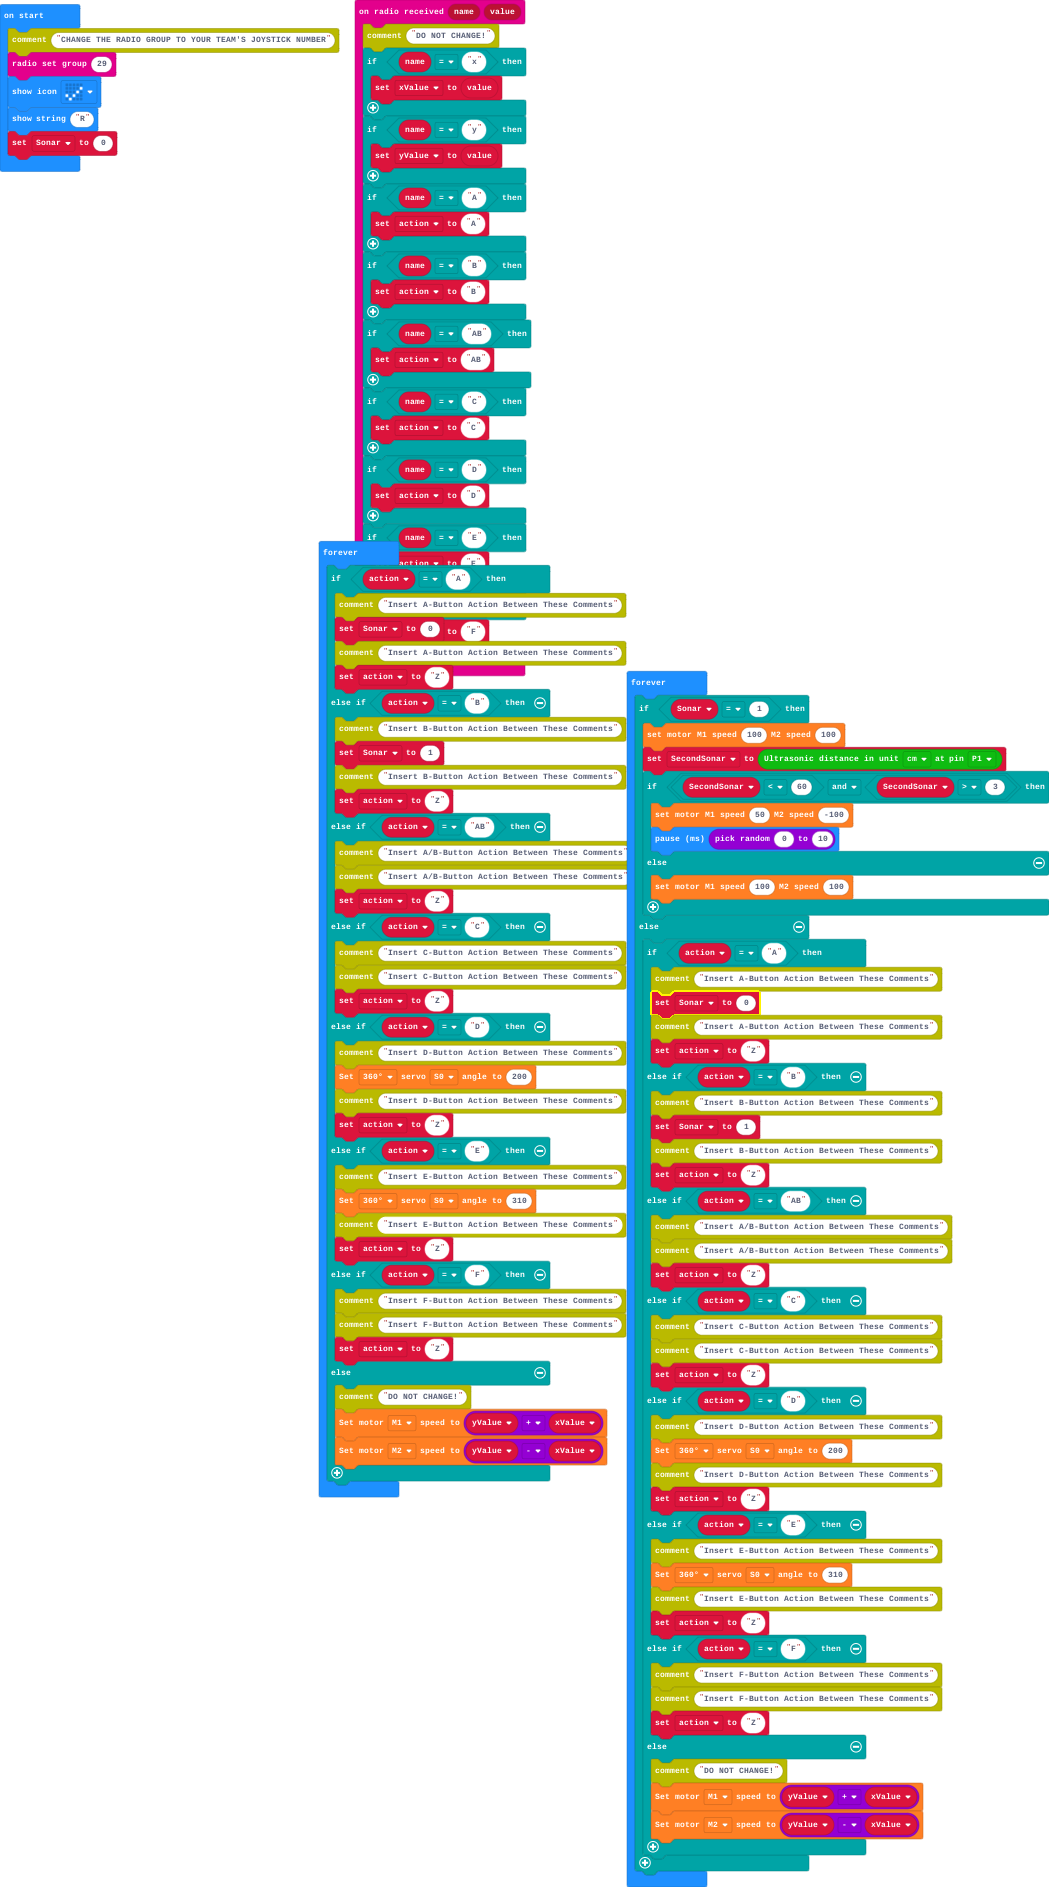
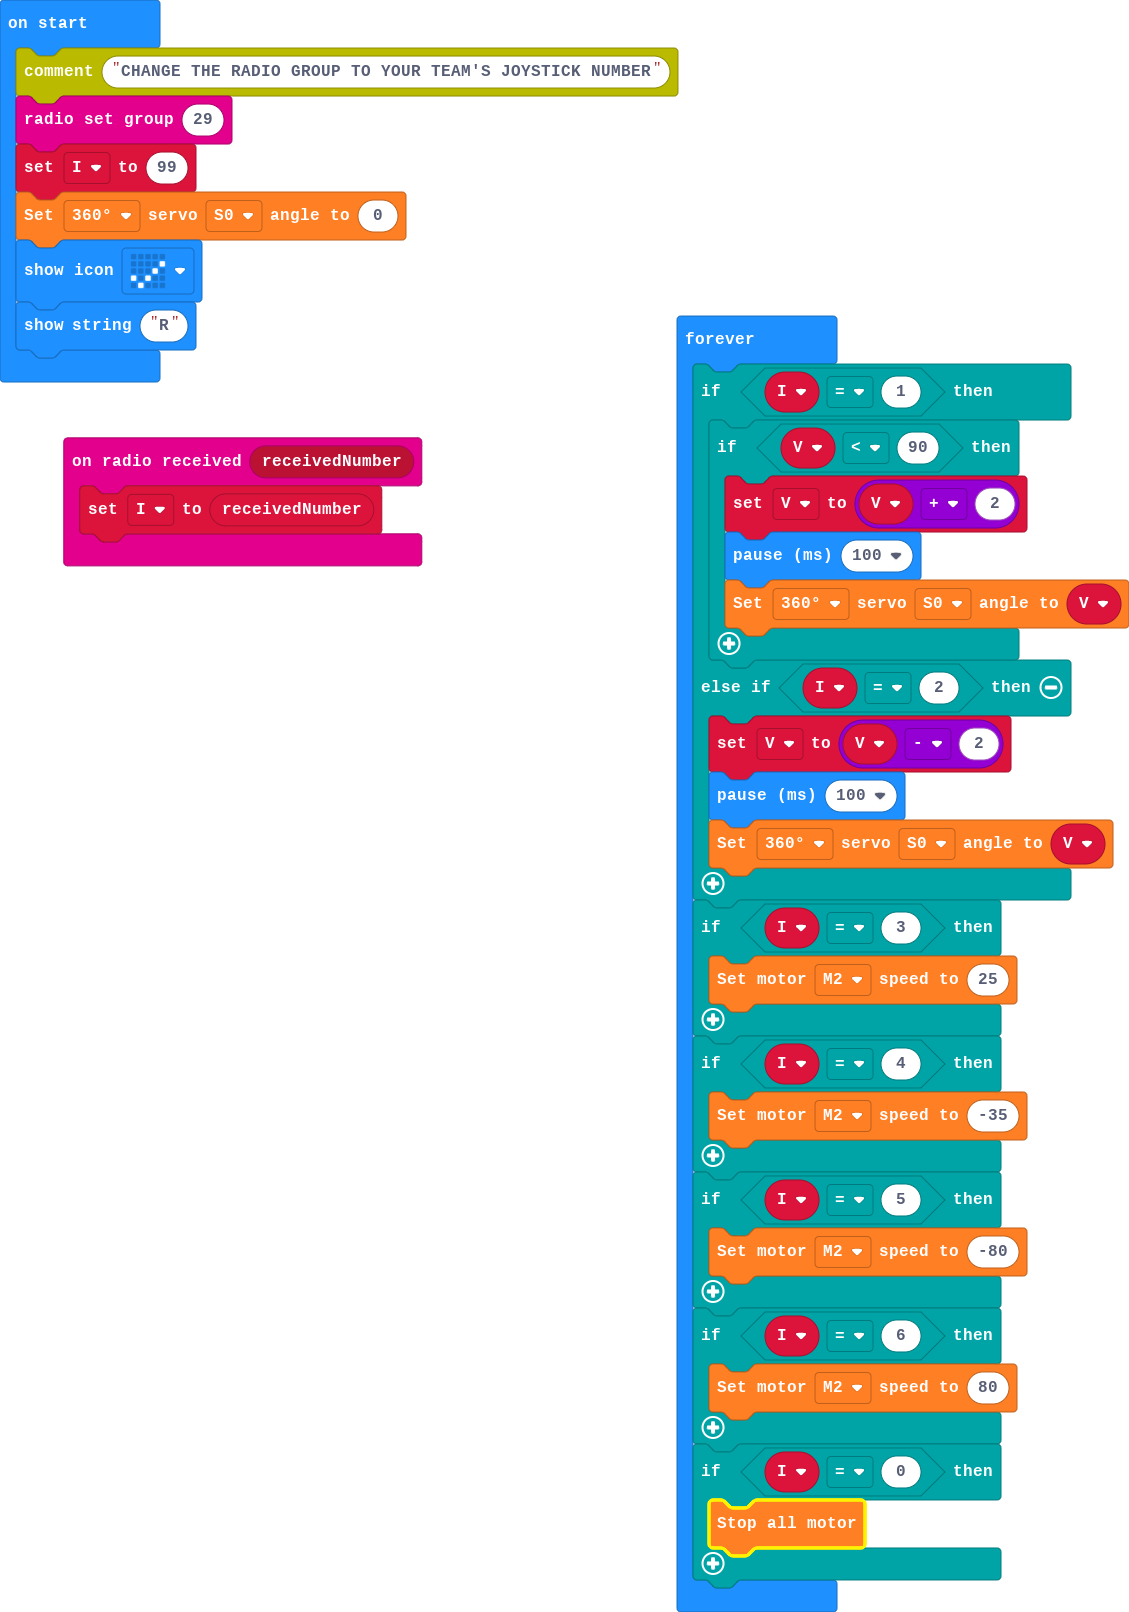
Update pxt.json, main.blocks, main.ts

diff --git a/main.ts b/main.ts
@@ -1,128 +1,39 @@
-radio.onReceivedValue(function (name, value) {
-    comment.comment("DO NOT CHANGE!")
-    if (name == "x") {
-        xValue = value
-    }
-    if (name == "y") {
-        yValue = value
-    }
-    if (name == "A") {
-        action = "A"
-    }
-    if (name == "B") {
-        action = "B"
-    }
-    if (name == "AB") {
-        action = "AB"
-    }
-    if (name == "C") {
-        action = "C"
-    }
-    if (name == "D") {
-        action = "D"
-    }
-    if (name == "E") {
-        action = "E"
-    }
-    if (name == "F") {
-        action = "F"
-    }
+radio.onReceivedNumber(function (receivedNumber) {
+    I = receivedNumber
 })
-let SecondSonar = 0
-let action = ""
-let yValue = 0
-let xValue = 0
+let V = 0
+let I = 0
 comment.comment("CHANGE THE RADIO GROUP TO YOUR TEAM'S JOYSTICK NUMBER")
 radio.setGroup(29)
+I = 99
+wuKong.setServoAngle(wuKong.ServoTypeList._360, wuKong.ServoList.S0, 0)
 basic.showIcon(IconNames.Yes)
 basic.showString("R")
-let Sonar = 0
 basic.forever(function () {
-    if (action == "A") {
-        comment.comment("Insert A-Button Action Between These Comments")
-        Sonar = 0
-        comment.comment("Insert A-Button Action Between These Comments")
-        action = "Z"
-    } else if (action == "B") {
-        comment.comment("Insert B-Button Action Between These Comments")
-        Sonar = 1
-        comment.comment("Insert B-Button Action Between These Comments")
-        action = "Z"
-    } else if (action == "AB") {
-        comment.comment("Insert A/B-Button Action Between These Comments")
-        comment.comment("Insert A/B-Button Action Between These Comments")
-        action = "Z"
-    } else if (action == "C") {
-        comment.comment("Insert C-Button Action Between These Comments")
-        comment.comment("Insert C-Button Action Between These Comments")
-        action = "Z"
-    } else if (action == "D") {
-        comment.comment("Insert D-Button Action Between These Comments")
-        wuKong.setServoAngle(wuKong.ServoTypeList._360, wuKong.ServoList.S0, 200)
-        comment.comment("Insert D-Button Action Between These Comments")
-        action = "Z"
-    } else if (action == "E") {
-        comment.comment("Insert E-Button Action Between These Comments")
-        wuKong.setServoAngle(wuKong.ServoTypeList._360, wuKong.ServoList.S0, 310)
-        comment.comment("Insert E-Button Action Between These Comments")
-        action = "Z"
-    } else if (action == "F") {
-        comment.comment("Insert F-Button Action Between These Comments")
-        comment.comment("Insert F-Button Action Between These Comments")
-        action = "Z"
-    } else {
-        comment.comment("DO NOT CHANGE!")
-        wuKong.setMotorSpeed(wuKong.MotorList.M1, yValue + xValue)
-        wuKong.setMotorSpeed(wuKong.MotorList.M2, yValue - xValue)
+    if (I == 1) {
+        if (V < 90) {
+            V = V + 2
+            basic.pause(100)
+            wuKong.setServoAngle(wuKong.ServoTypeList._360, wuKong.ServoList.S0, V)
+        }
+    } else if (I == 2) {
+        V = V - 2
+        basic.pause(100)
+        wuKong.setServoAngle(wuKong.ServoTypeList._360, wuKong.ServoList.S0, V)
     }
-})
-basic.forever(function () {
-    if (Sonar == 1) {
-        wuKong.setAllMotor(100, 100)
-        SecondSonar = sonarbit.sonarbit_distance(Distance_Unit.Distance_Unit_cm, DigitalPin.P1)
-        if (SecondSonar < 60 && SecondSonar > 3) {
-            wuKong.setAllMotor(50, -100)
-            basic.pause(randint(0, 10))
-        } else {
-            wuKong.setAllMotor(100, 100)
-        }
-    } else {
-        if (action == "A") {
-            comment.comment("Insert A-Button Action Between These Comments")
-            Sonar = 0
-            comment.comment("Insert A-Button Action Between These Comments")
-            action = "Z"
-        } else if (action == "B") {
-            comment.comment("Insert B-Button Action Between These Comments")
-            Sonar = 1
-            comment.comment("Insert B-Button Action Between These Comments")
-            action = "Z"
-        } else if (action == "AB") {
-            comment.comment("Insert A/B-Button Action Between These Comments")
-            comment.comment("Insert A/B-Button Action Between These Comments")
-            action = "Z"
-        } else if (action == "C") {
-            comment.comment("Insert C-Button Action Between These Comments")
-            comment.comment("Insert C-Button Action Between These Comments")
-            action = "Z"
-        } else if (action == "D") {
-            comment.comment("Insert D-Button Action Between These Comments")
-            wuKong.setServoAngle(wuKong.ServoTypeList._360, wuKong.ServoList.S0, 200)
-            comment.comment("Insert D-Button Action Between These Comments")
-            action = "Z"
-        } else if (action == "E") {
-            comment.comment("Insert E-Button Action Between These Comments")
-            wuKong.setServoAngle(wuKong.ServoTypeList._360, wuKong.ServoList.S0, 310)
-            comment.comment("Insert E-Button Action Between These Comments")
-            action = "Z"
-        } else if (action == "F") {
-            comment.comment("Insert F-Button Action Between These Comments")
-            comment.comment("Insert F-Button Action Between These Comments")
-            action = "Z"
-        } else {
-            comment.comment("DO NOT CHANGE!")
-            wuKong.setMotorSpeed(wuKong.MotorList.M1, yValue + xValue)
-            wuKong.setMotorSpeed(wuKong.MotorList.M2, yValue - xValue)
-        }
+    if (I == 3) {
+        wuKong.setMotorSpeed(wuKong.MotorList.M2, 25)
+    }
+    if (I == 4) {
+        wuKong.setMotorSpeed(wuKong.MotorList.M2, -35)
+    }
+    if (I == 5) {
+        wuKong.setMotorSpeed(wuKong.MotorList.M2, -80)
+    }
+    if (I == 6) {
+        wuKong.setMotorSpeed(wuKong.MotorList.M2, 80)
+    }
+    if (I == 0) {
+        wuKong.stopAllMotor()
     }
 })
